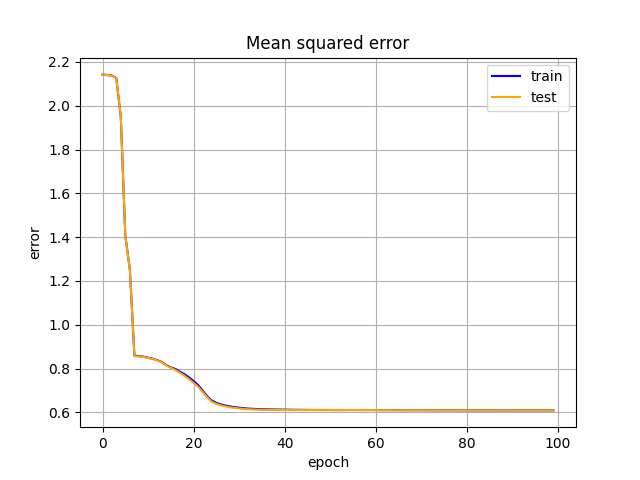
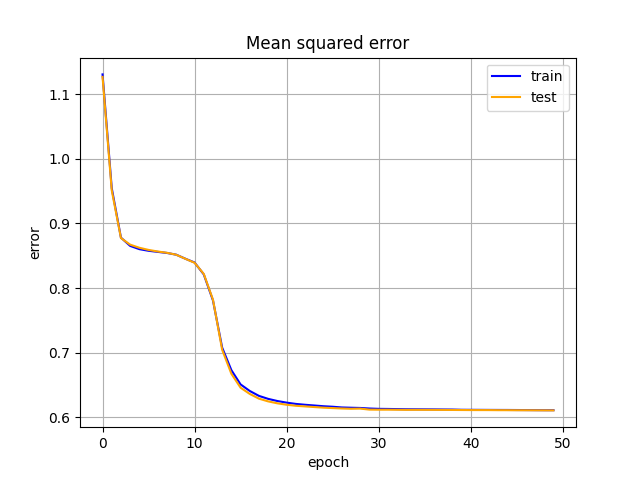
Bot entregable

diff --git a/main_ale.cpp b/main_ale.cpp
@@ -3,8 +3,8 @@
 #include <string.h>
 
 const double REGULARIZATION_LAMBDA  = 0.001;
-const uint32_t BATCH_SIZE           = 128;
-const int EPOCHS                    = 100;
+const uint32_t BATCH_SIZE           = 96;
+const int EPOCHS                    = 50;
 const double LEARNING_RATE          = 0.1;
 const int OUTPUT_SIZE               = 3;
 uint16_t INPUT_SIZE                 = 0;
@@ -59,7 +59,7 @@ void run(int argc, char* argv[])
     INPUT_SIZE = X_train[0].size();
     std::cout << "INPUT_SIZE: " << INPUT_SIZE << std::endl;
     std::cout << "X_train SIZE: " << X_train.size() << std::endl;
-    Net_t net{ INPUT_SIZE, 32, 32, OUTPUT_SIZE };
+    Net_t net{ INPUT_SIZE, 28, 22, OUTPUT_SIZE };
     
     const double fit_time = net_fit(net, X_train, y_train, X_valid, y_valid);
 
